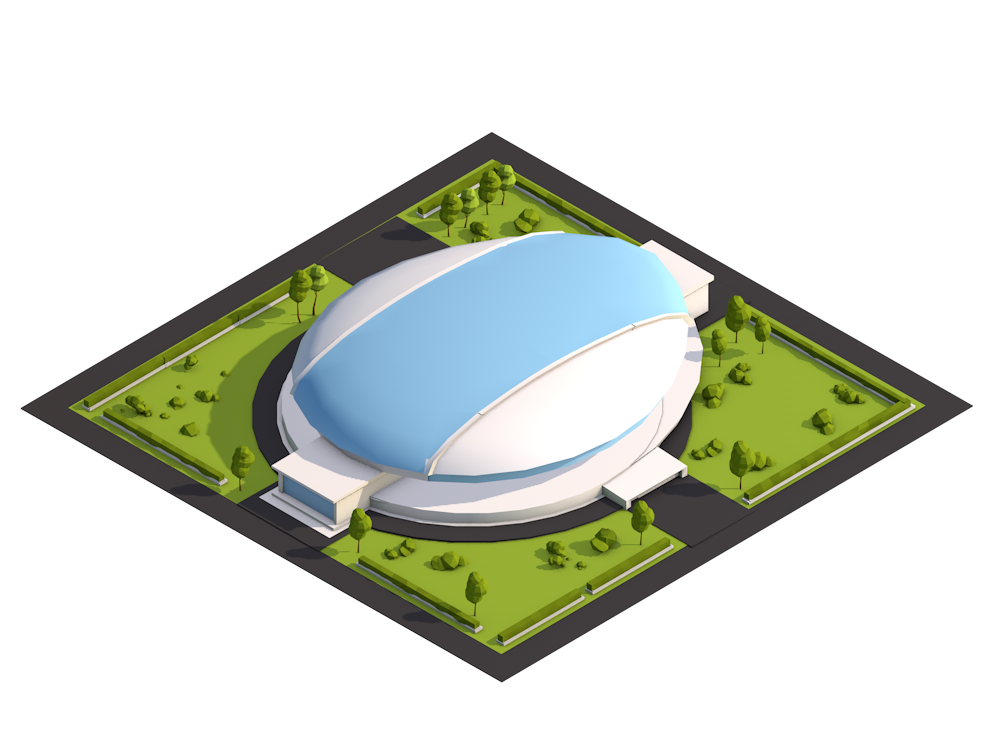
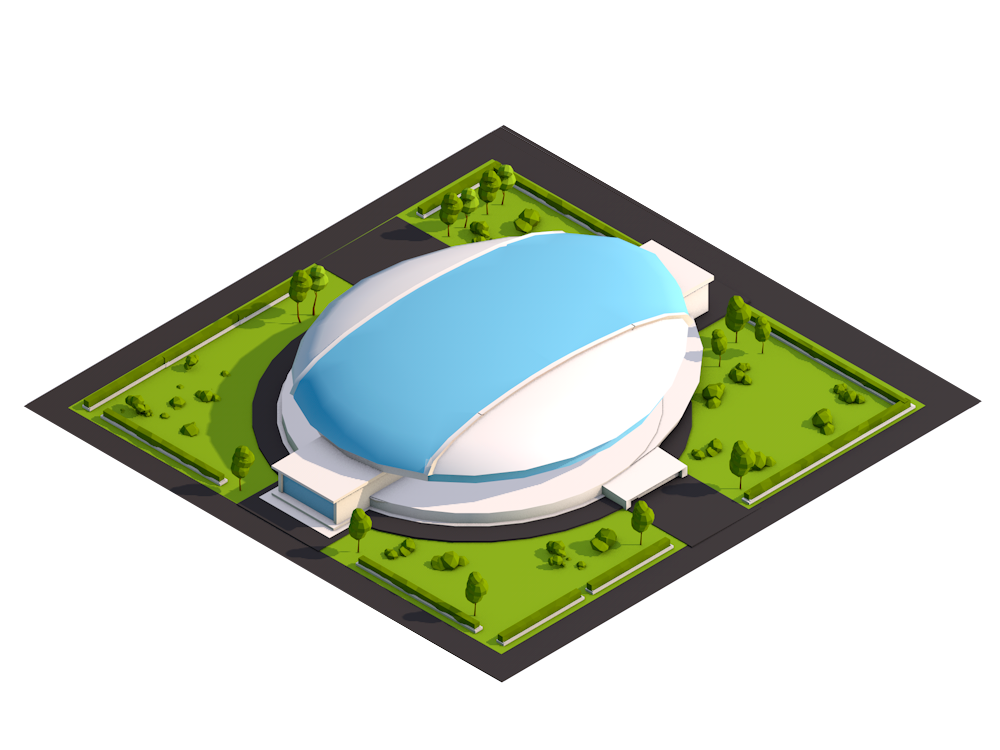
add road

diff --git a/src/app/app.content.html b/src/app/app.content.html
@@ -49,7 +49,9 @@
     <div *ngFor="let line of map; let lineIndex = index">
       <img *ngFor="let cell of line; let roadIndex = index" src="../assets/City_Objects/Block_Road_02.png" [style.left] = "410 + (271.5*roadIndex) + lineIndex*267 + 'px'" [style.top] = "415 - (158*roadIndex) + lineIndex*156 + 'px'" [style.z-index] = "0 - roadIndex">
     </div>
-    <img src="../assets/City_Objects/Block_30.png" style="left:0px; top:0px">
+    <img src="../assets/City_Objects/Block_32.png" style="left:0px; top:0px">
+    <img src="../assets/City_Objects/Block_Road_Long_01.png" style="left:0px; top:0px">
+    <img src="../assets/City_Objects/Block_Road_Long_02.png" style="left:0px; top:0px">
   </div>
 </div>
 <div class="footer container-fluid" >
